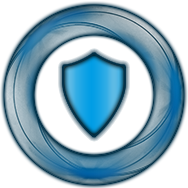
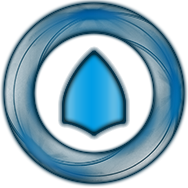
editor: integrated shield and medkit

diff --git a/backend/packages/level-editor/src/visual/level.ts b/backend/packages/level-editor/src/visual/level.ts
@@ -1,11 +1,16 @@
 import { strict as assert } from 'assert'
 import { Floors, Grid } from '../entities'
 
-import { Arena, TilePosition } from '@batufo/core'
+import {
+  Arena,
+  Pickup,
+  PickupType,
+  TilePosition,
+  WorldPosition,
+} from '@batufo/core'
 import { Canvas } from './canvas'
 import { Images } from './images'
 import { Rect } from './rect'
-import { WorldPosition } from '@batufo/core/dist/arena/world-position'
 
 import EventEmitter from 'eventemitter3'
 import { relativeOffset } from './util'
@@ -16,6 +21,11 @@ import { PositionedSprites } from '../entities/positioned-sprites'
 export type TileSelectedEventArgs = { tile: Offset; cursor: Cursor }
 
 const origin: UpdateOrigin = 'visual'
+
+function pickupPositionsForType(pickups: Pickup[], type: PickupType) {
+  return pickups.filter((x) => x.type === type).map((x) => x.tilePosition)
+}
+
 export class Level extends EventEmitter {
   arena?: Arena
   highlightedPosition?: WorldPosition
@@ -24,6 +34,8 @@ export class Level extends EventEmitter {
   private readonly _walls: PositionedSprites
   private readonly _floors: Floors
   private readonly _players: PositionedSprites
+  private readonly _shields: PositionedSprites
+  private readonly _medkits: PositionedSprites
   private readonly _empties: PositionedSprites
 
   constructor(readonly images: Images) {
@@ -33,6 +45,8 @@ export class Level extends EventEmitter {
     this._walls = new PositionedSprites(images.getImage('wall'))
     this._floors = new Floors()
     this._players = new PositionedSprites(images.getImage('player'))
+    this._shields = new PositionedSprites(images.getImage('shield'))
+    this._medkits = new PositionedSprites(images.getImage('medkit'))
   }
 
   private _canvas?: Canvas
@@ -67,9 +81,14 @@ export class Level extends EventEmitter {
   updateArena(arena: Arena) {
     this.arena = arena
 
+    const shields = pickupPositionsForType(arena.pickups, PickupType.Shield);
+    const medkits = pickupPositionsForType(arena.pickups, PickupType.Medkit);
+
     this._walls.update(arena.walls, arena.tileSize)
     this._floors.update(arena.floorTiles, arena.tileSize)
     this._players.update(arena.players, arena.tileSize)
+    this._shields.update(shields, arena.tileSize)
+    this._medkits.update(medkits, arena.tileSize)
 
     const emptyTiles = this._determineEmptyTiles(arena)
     this._empties.update(emptyTiles, arena.tileSize)
@@ -100,6 +119,8 @@ export class Level extends EventEmitter {
     this._walls.render(this.canvas)
     this._floors.render(this.canvas)
     this._players.render(this.canvas)
+    this._shields.render(this.canvas)
+    this._medkits.render(this.canvas)
     this._grid.render(
       this.canvas,
       this.arena.tileSize,

diff --git a/backend/packages/level-editor/src/visual/images.ts b/backend/packages/level-editor/src/visual/images.ts
@@ -4,10 +4,14 @@ import { UnreachableCaseError } from '@batufo/core'
 const wallImageURL = require('../assets/wall-metal.png')
 const cursorWallURL = require('../assets/cursor.wall-metal.png')
 const playerImageURL = require('../assets/player.png')
+const shieldImageURL = require('../assets/shield.png')
+const medkitImageURL = require('../assets/medkit.png')
 const emptyImageURL = require('../assets/empty.png')
 const cursorPlayerURL = require('../assets/cursor.player.png')
 const cursorTrashURL = require('../assets/cursor.trash.png')
 const cursorArrowURL = require('../assets/cursor.arrow.png')
+const cursorShieldURL = require('../assets/cursor.shield.png')
+const cursorMedkitURL = require('../assets/cursor.medkit.png')
 const cursorEmptyURL = require('../assets/cursor.empty.png')
 
 export class Images {
@@ -26,8 +30,12 @@ export class Images {
         { img: 'wall', url: wallImageURL },
         { img: 'cursor:wall', url: cursorWallURL },
         { img: 'player', url: playerImageURL },
+        { img: 'shield', url: shieldImageURL },
+        { img: 'medkit', url: medkitImageURL },
         { img: 'empty', url: emptyImageURL },
         { img: 'cursor:player', url: cursorPlayerURL },
+        { img: 'cursor:shield', url: cursorShieldURL },
+        { img: 'cursor:medkit', url: cursorMedkitURL },
         { img: 'cursor:trash', url: cursorTrashURL },
         { img: 'cursor:arrow', url: cursorArrowURL },
         { img: 'cursor:empty', url: cursorEmptyURL },
@@ -43,6 +51,10 @@ export class Images {
         return this.getImage('cursor:wall')
       case 'player':
         return this.getImage('cursor:player')
+      case 'shield':
+        return this.getImage('cursor:shield')
+      case 'medkit':
+        return this.getImage('cursor:medkit')
       case 'erase':
         return this.getImage('cursor:trash')
       case 'empty':

diff --git a/backend/packages/level-editor/src/components/visual-menu.tsx b/backend/packages/level-editor/src/components/visual-menu.tsx
@@ -90,6 +90,8 @@ function PaintTypeSelectors({ app }: PaintTypeSelectorsProps) {
       <PaintTypeSelector app={app} paintType={'wall'} />
       <PaintTypeSelector app={app} paintType={'erase'} />
       <PaintTypeSelector app={app} paintType={'empty'} />
+      <PaintTypeSelector app={app} paintType={'shield'} />
+      <PaintTypeSelector app={app} paintType={'medkit'} />
       <PaintTypeSelector app={app} paintType={'player'} />
     </EntityDiv>
   )

diff --git a/backend/packages/level-editor/src/controllers/app-controller.ts b/backend/packages/level-editor/src/controllers/app-controller.ts
@@ -170,7 +170,13 @@ export class AppController extends EventEmitter {
       case 'r':
         this.setPaintType('empty')
         break
-      case 't':
+      case 's':
+        this.setPaintType('shield')
+        break
+      case 'd':
+        this.setPaintType('medkit')
+        break
+      case 'f':
         this.setPaintType('player')
         break
       case 'u':

diff --git a/backend/packages/level-editor/src/types.ts b/backend/packages/level-editor/src/types.ts
@@ -1,4 +1,12 @@
-export const PaintTypes = ['none', 'wall', 'player', 'empty', 'erase'] as const
+export const PaintTypes = [
+  'none',
+  'wall',
+  'player',
+  'shield',
+  'medkit',
+  'empty',
+  'erase',
+] as const
 
 export type PaintType = typeof PaintTypes[number]
 

diff --git a/backend/packages/level-editor/src/controllers/text-controller.ts b/backend/packages/level-editor/src/controllers/text-controller.ts
@@ -11,6 +11,10 @@ function charForPaint(paintType: PaintType) {
       return '='
     case 'player':
       return 'p'
+    case 'shield':
+      return 's'
+    case 'medkit':
+      return '+'
     case 'empty':
       return 'x'
     case 'erase':

diff --git a/backend/packages/core/src/arena/index.ts b/backend/packages/core/src/arena/index.ts
@@ -5,3 +5,4 @@ export * from './levels'
 export * from './pickup'
 export * from './tile-position'
 export * from './tilemap'
+export * from './world-position'
